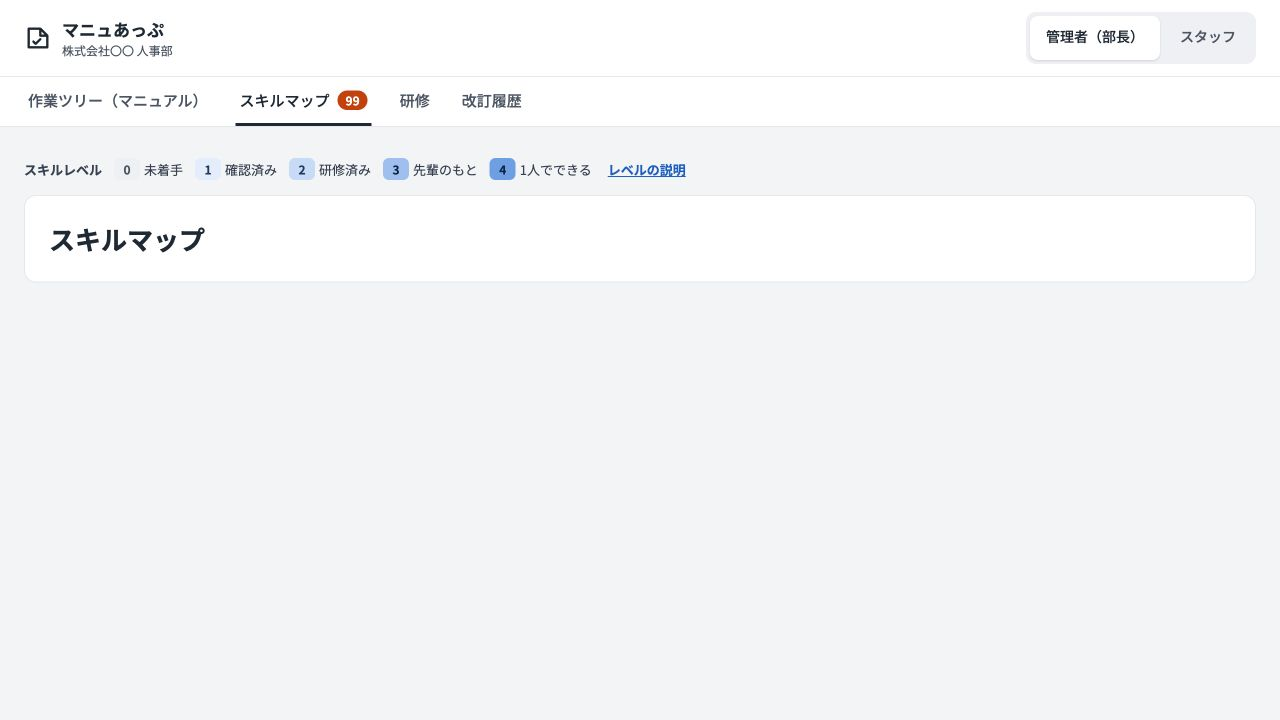
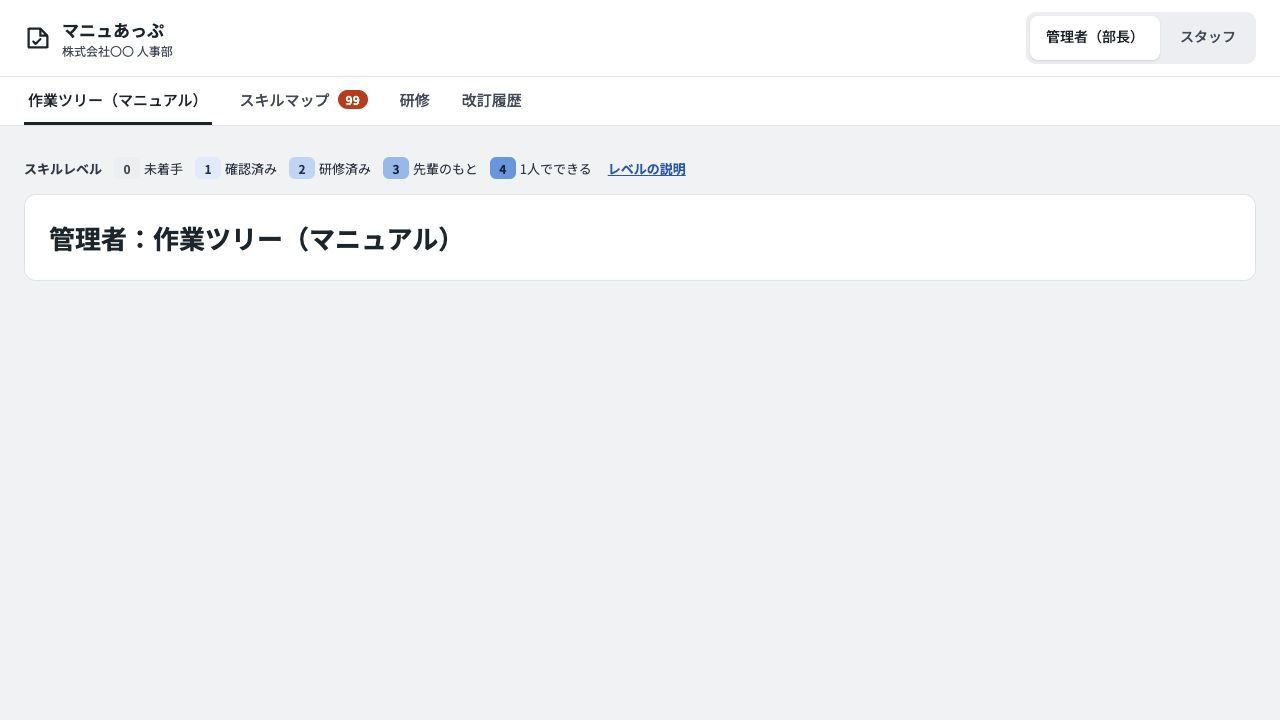
refactor: 各画面を立場付き見出しの専用ビューに分ける

diff --git a/spec/requests/home_spec.rb b/spec/requests/home_spec.rb
@@ -7,7 +7,7 @@ RSpec.describe "トップページ" do
     expect(response).to have_http_status(:ok)
     document = Capybara.string(response.body)
     expect(document).to have_css("header", text: I18n.t("app_name"))
-    expect(document).to have_css("main h1", text: "作業マニュアル")
+    expect(document).to have_css("main h1", exact_text: "スタッフ：作業マニュアル")
     expect(document).to have_css('nav[aria-label="画面切り替え"] a[aria-current="page"]', count: 1, text: "作業マニュアル")
     expect(response.body).not_to include("管理者の見立て", "▲", "▼", "▽", "◇")
   end

diff --git a/spec/requests/navigation_spec.rb b/spec/requests/navigation_spec.rb
@@ -18,7 +18,7 @@ RSpec.describe "共通レイアウト" do
         document = Capybara.string(response.body)
 
         expect(document).to have_css("header", text: I18n.t("app_name"))
-        expect(document).to have_css("main h1", text: title)
+        expect(document).to have_css("main h1", exact_text: "#{audience == :admin ? '管理者' : 'スタッフ'}：#{title}")
         expect(document).to have_css("details summary", text: "レベルの説明")
         expect(document).to have_css("#flash-messages", visible: :all)
         if audience == :staff

diff --git a/app/controllers/admin/manual_revisions_controller.rb b/app/controllers/admin/manual_revisions_controller.rb
@@ -1,7 +1,6 @@
 module Admin
   class ManualRevisionsController < ApplicationController
     def index
-      render "shared/placeholder", locals: { title: t("navigation.admin.manual_revisions") }
     end
   end
 end

diff --git a/app/controllers/staff/manual_revisions_controller.rb b/app/controllers/staff/manual_revisions_controller.rb
@@ -1,7 +1,6 @@
 module Staff
   class ManualRevisionsController < ApplicationController
     def index
-      render "shared/placeholder", locals: { title: t("navigation.staff.manual_revisions") }
     end
   end
 end

diff --git a/app/controllers/admin/operations_controller.rb b/app/controllers/admin/operations_controller.rb
@@ -1,7 +1,6 @@
 module Admin
   class OperationsController < ApplicationController
     def index
-      render "shared/placeholder", locals: { title: t("navigation.admin.operations") }
     end
   end
 end

diff --git a/app/controllers/staff/operations_controller.rb b/app/controllers/staff/operations_controller.rb
@@ -1,7 +1,6 @@
 module Staff
   class OperationsController < ApplicationController
     def index
-      render "shared/placeholder", locals: { title: t("navigation.staff.operations") }
     end
   end
 end

diff --git a/app/controllers/admin/trainings_controller.rb b/app/controllers/admin/trainings_controller.rb
@@ -1,7 +1,6 @@
 module Admin
   class TrainingsController < ApplicationController
     def index
-      render "shared/placeholder", locals: { title: t("navigation.admin.trainings") }
     end
   end
 end

diff --git a/app/controllers/admin/skill_maps_controller.rb b/app/controllers/admin/skill_maps_controller.rb
@@ -1,7 +1,6 @@
 module Admin
   class SkillMapsController < ApplicationController
     def show
-      render "shared/placeholder", locals: { title: t("navigation.admin.skill_map") }
     end
   end
 end

diff --git a/app/controllers/staff/skills_controller.rb b/app/controllers/staff/skills_controller.rb
@@ -1,7 +1,6 @@
 module Staff
   class SkillsController < ApplicationController
     def index
-      render "shared/placeholder", locals: { title: t("navigation.staff.skills") }
     end
   end
 end

diff --git a/docs/screens.md b/docs/screens.md
@@ -58,7 +58,7 @@ flowchart TD
 ### 共通レイアウトの接続
 
 - URL：管理者は `/admin/operations`・`/admin/skill_map`・`/admin/trainings`・`/admin/manual_revisions`。スタッフは `/staff/operations`・`/staff/skills`・`/staff/manual_revisions`。
-- ルート `/` はスタッフの作業マニュアルを表示する。`/staff/operations` と同じ内容・選択タブを使う。各画面の本文は見出しのみ。
+- ルート `/` はスタッフの作業マニュアルを表示する。`/staff/operations` と同じ内容・選択タブを使う。各画面の本文は専用の `app/views/admin/…`・`app/views/staff/…` に置き、h1に立場（管理者／スタッフ）と画面名を表示する。
 - `shared/header` にタイトル・立場別画面へのリンク・タブ・常時表示のレベル凡例と開閉式の「レベルの説明」・フラッシュ通知枠をまとめる。共通レイアウトから一度だけ呼び出す。
 - フラッシュは `flash` / `flash.now` のnotice・alert等を表示する。通知がなければ余白を出さず、`flash-messages` の差し替え先だけを残す。研修依頼の通知の帯は別機能。
 - 現段階の立場別リンクは画面間の移動のみ。セッションの操作ユーザー切り替え・スタッフ選択・管理者画面へのアクセス制御は、操作ユーザー機能との接続時に追加する。URLの名前空間は認可の代わりにならない。

diff --git a/.agents/knowledge/layout.md b/.agents/knowledge/layout.md
@@ -4,3 +4,4 @@
 - 合意により管理者スキルマップとスタッフ2タブの件数バッジは仮表示を使う。header/tabsへskill_map_count・training_count・unread_countを渡し、省略・nilは99、0は0のまま。実件数の集計と操作ユーザー選択は別途接続する。（2026-10-30）
 - ルートはスタッフの作業マニュアル。`navigation_current?` で `/` と `/staff/operations` を同じ選択タブとして扱う。凡例の概要は常時表示し、詳細だけdetailsで開閉する。（2026-10-30）
 - モックの文字組みは `Noto Sans JP, system-ui, sans-serif` と `line-height: normal`。Tailwindのtext-sm/text-xsは既定の行間を持つため、共通部品ではnormalを明示する。フォントの読込はlayouts/headにまとめる。（2026-10-30）
+- 各画面はadmin/staff配下の専用ERBをRails標準の暗黙renderで表示する。h1には立場と画面名を記載し、共通ヘッダーはapplicationレイアウトから呼ぶ。（2026-10-31）
